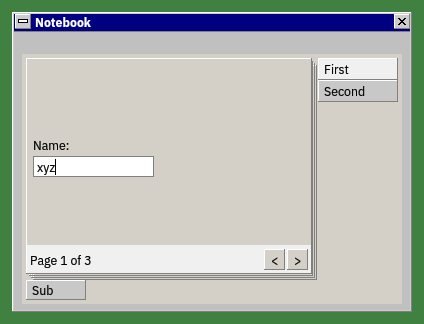
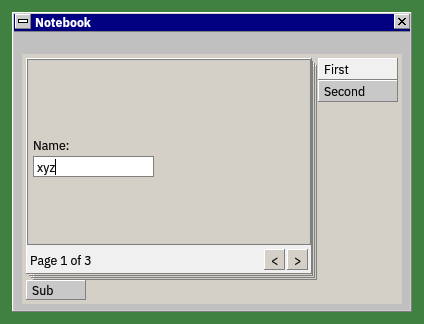
docs(readme): show an embedded dialog and the bordered notebook page
The notebook picture predated notebook pages drawing their default
dialog border, and embedded-dialog chrome had no picture.

- pm_notebook.png recaptured, its caption naming the border;
- pm_embdlg.png added: the dialog's title bar and border, Tab across
  its edge and a window of the program's own class inside it;
- pm_twoproc.png removed: the window-list picture also shows two
  programs on one session desktop, and its caption now says so.

Claude-Session: https://claude.ai/code/session_01Ux2KKr7puFgrPeFJFk22fL

Changed region(s): [[0.7052, 0.7407, 0.7358, 0.7716], [0.0613, 0.7407, 0.092, 0.7716]]

diff --git a/README.md b/README.md
@@ -24,13 +24,13 @@ Warpine is a compatibility layer that runs 32-bit OS/2 (LX format) and 16-bit OS
 | **Typography.** Presentation Manager text is drawn in the embedded IBM Plex families: fonts chosen with `GpiCreateLogFont` (face, bold, italic, size) and CJK text in four DBCS codepages. The red rules are the widths reported by `GpiQueryTextBox`. | **Arcs, patterns and line widths.** `GpiFullArc` circles and ellipses, a `GpiPartialArc` wedge, the `PATSYM_*` area patterns and lines 1, 2, 4 and 8 pels wide. The text lists the sample's own checks, read back with `GpiQueryPel`: 29 of 29 pass. |
 | ![PM Built-in Controls Test window: a static label, a Click Me push button, an entry field reading ">>initial textHello, Wörld!", a vertical scroll bar, an empty list box and a multi-line field showing "Line one" and "three" with a caret after "three"](doc/screenshots/pm_controls_typing.png) | ![A "Your name and colour" dialog over the inactive PM Dialog Test window: the Name field reads Warp, the Colour list box has Green selected with a dotted focus mark, and the OK button has a dark default outline next to Cancel](doc/screenshots/pm_dialog_keyboard.png) |
 | **Built-in controls and typing.** The entry field was clicked and typed into (`Hello, Wörld!` at the end, then *Home* and `>>` at the start); in the multi-line field, Enter after "Line one" and `three` started a new line. | **Dialogs from the keyboard.** Ctrl+D, from the window's accelerator table, opens a modal dialog built from a `DLGTEMPLATE` resource. `Warp` was typed into the focused field, then Tab and Down twice picked *Green*. |
-| ![PM Slider / Value Set Test window: a horizontal slider with a 0 to 5 scale, arrow buttons, a blue ribbon strip and its arm on a detent; a half-filled progress slider; a slider with a red owner-drawn arm; a vertical slider with buttons and ticks; a grid of eight colour items with red selected; a row of value set items with blue selected and an owner-drawn yellow item; and text items Three (selected), a greyed Two and One](doc/screenshots/pm_slider_valueset.png) | ![A Notebook window: page 1 of 3 with a "Name:" label and an entry field reading "xyz", a status line "Page 1 of 3" with back and forward page buttons, major tabs First and Second on the right and a minor tab Sub at the bottom](doc/screenshots/pm_notebook.png) |
-| **Sliders and value sets.** A scripted session clicked the shaft, dragged the arm, pressed a button and the arrow keys, and Shift+Right moved the arm to a detent; the red arm is drawn by the owner. In the value sets, clicks and keys selected items; "Two" is disabled. | **Notebooks.** `WC_NOTEBOOK` with major and minor tabs, a status line and page buttons. Clicks turned to the second page and back, and `xyz` was typed into the page's dialog, a dialog embedded in the notebook page. |
+| ![PM Slider / Value Set Test window: a horizontal slider with a 0 to 5 scale, arrow buttons, a blue ribbon strip and its arm on a detent; a half-filled progress slider; a slider with a red owner-drawn arm; a vertical slider with buttons and ticks; a grid of eight colour items with red selected; a row of value set items with blue selected and an owner-drawn yellow item; and text items Three (selected), a greyed Two and One](doc/screenshots/pm_slider_valueset.png) | ![A Notebook window: page 1 of 3, framed by a thin dialog border, with a "Name:" label and an entry field reading "xyz", a status line "Page 1 of 3" with back and forward page buttons, major tabs First and Second on the right and a minor tab Sub at the bottom](doc/screenshots/pm_notebook.png) |
+| **Sliders and value sets.** A scripted session clicked the shaft, dragged the arm, pressed a button and the arrow keys, and Shift+Right moved the arm to a detent; the red arm is drawn by the owner. In the value sets, clicks and keys selected items; "Two" is disabled. | **Notebooks.** `WC_NOTEBOOK` with major and minor tabs, a status line and page buttons. Clicks turned to the second page and back, and `xyz` was typed into the page's dialog, a dialog embedded in the notebook page; its template keeps the default dialog border, which it draws inside the page. |
 | ![The Container icons window: a container in the icon view with two rows of icons — a tan folder renamed "Archive", a program window icon "Programs", a page icon "Notes", a two-page icon "Docs" and a window icon "App" — each with its text centred under it](doc/screenshots/pm_cnricon.png) | ![4OS2 in a "Warpine — 4os2.exe" frame on the PM desktop, white on blue after color and cls: the ver command and a wide dir listing of drive C:, ending at the [c:\\] prompt](doc/screenshots/4os2_window.png) |
 | **Containers.** `WC_CONTAINER` in the icon view, with system icons. The folder was renamed in place: Alt+click on its text, typing, and a click elsewhere, which asks the program for a buffer (`CN_REALLOCPSZ`). The text, name, detail and tree views, sorting and filtering work too. | **Text-mode programs in a PM window.** 4OS2 runs in a frame on the PM desktop, as in an OS/2 window session. The ANSI sequences it prints for `color` and `cls` are interpreted. `WARPINE_VIO=fullscreen` runs it full screen instead (the text window at the top of this page). |
 
-| ![Two windows side by side on one teal desktop: "Program A" with a navy (active) title bar and a light grey client, and "Program B" with a dark grey (inactive) title bar and a white client](doc/screenshots/pm_twoproc.png) | ![Two windows, "Shell A" active with a grey client and "Shell B" inactive with a white client, and a small pop-up menu listing "Shell A" and "Shell B", with "Shell B" highlighted](doc/screenshots/pm_window_list.png) |
-| **One desktop per session.** Two separate PM programs — a parent and the child it started, each its own Warpine process — on the desktop of the session's desktop server. A was clicked last, so its title bar is the active one; keys and clicks reach the two programs in the order they were typed. | **The window list.** Ctrl+Esc in Shell A opens the session's switch list, which holds both programs' entries; Down has highlighted Shell B, and Enter would switch to it. |
+| ![The "Embedded dialog chrome" window: a grey client with an entry field reading "q" and an "Out" button above an embedded "Inner dialog" with a dark grey title bar and a thin border, holding an entry field reading "xy", a "Press" button with the focus outline and a blue square drawn by the program's own window](doc/screenshots/pm_embdlg.png) | ![Two windows, "Shell A" active with a grey client and "Shell B" inactive with a white client, and a small pop-up menu listing "Shell A" and "Shell B", with "Shell B" highlighted](doc/screenshots/pm_window_list.png) |
+| **Dialogs inside windows.** A dialog loaded with the client as its parent lives inside the client and draws the title bar and border its template asks for. Tab went from the client's entry field into the dialog (`xy`), out again (`q`), and Shift+Tab back to *Press*; the blue square is a window of the program's own class, which gets its own clicks. | **One desktop per session, and the window list.** Shell A and Shell B are two separate PM programs, each its own Warpine process, on the session's desktop server. Ctrl+Esc in Shell A opened the switch list with both programs' entries; Down has highlighted Shell B, and Enter would switch to it. |
 
 ### Work in progress
 
@@ -41,7 +41,7 @@ Warpine is a compatibility layer that runs 32-bit OS/2 (LX format) and 16-bit OS
 - **Games and video** — DIVE (direct framebuffer blitting) and OpenGL are not implemented yet.
 - **Printing** — the spooler reports no printers.
 
-_Screenshots captured from uncommitted changes on top of `ed65028` on 2026-11-18; the two-program desktop from uncommitted changes on top of `5cca292` on 2026-11-19; the window list from uncommitted changes on top of `8ae62bb` on 2026-11-19._
+_Screenshots captured from uncommitted changes on top of `ed65028` on 2026-11-18; the window list from uncommitted changes on top of `8ae62bb` on 2026-11-19; the notebook and the embedded dialog from uncommitted changes on top of `3183407` on 2026-11-20._
 <!-- screenshots:end -->
 
 ## Key Features
